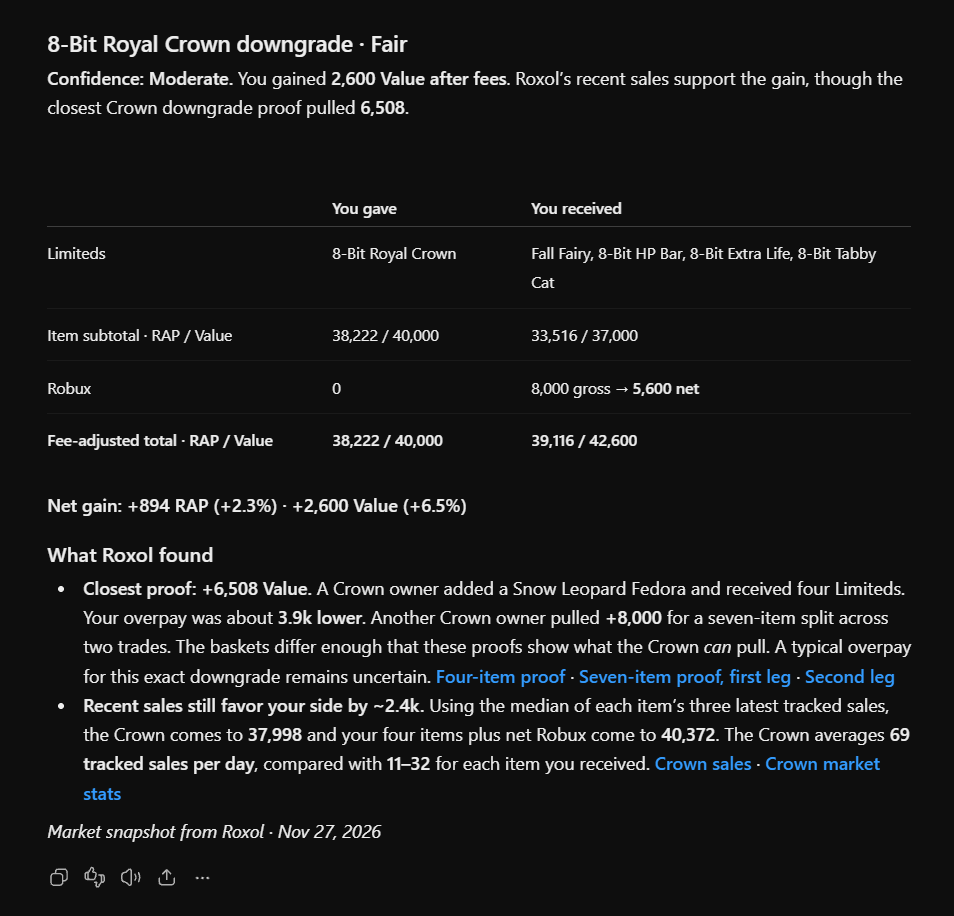
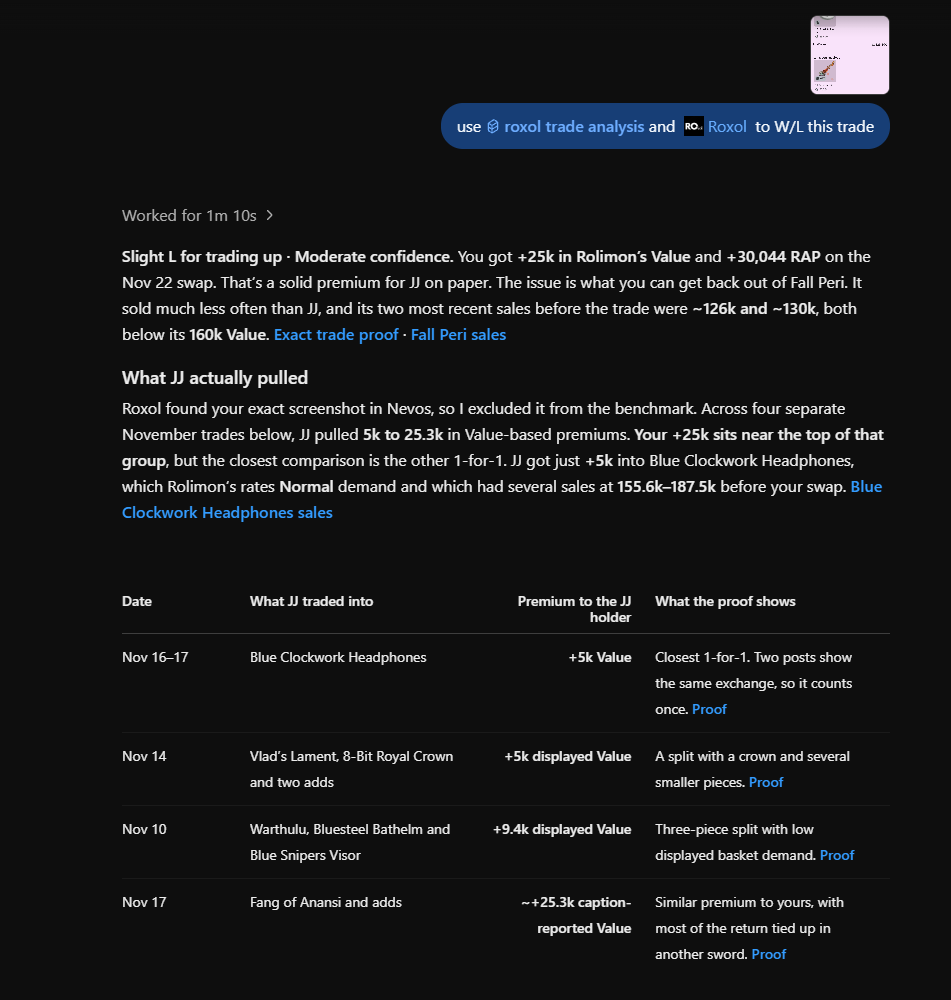
Refresh Roxol README screenshots
Show the trade analysis verdict, comparable deals, and market context from the same example. Add a profile Collections screenshot to show Roxol metrics on Limited cards.

diff --git a/README.md b/README.md
@@ -30,6 +30,8 @@ Open a Limited in Roblox Marketplace to check its price, recent sales, and obser
 
 Supported Roblox profiles and inventories also show RAP and Value totals for loaded copies, a paginated item breakdown, serials where available, and RoliBadges.
 
+![Roblox profile Collections with Roxol Value, demand badges, and sales history buttons on Limited cards](docs/screenshots/profile-collections.png)
+
 ## Trades
 
 Sign in and open Roblox **Trades**. Roxol adds comparisons to the trade lists, the selected trade, and the send and counter forms.
@@ -72,7 +74,9 @@ The bundled **Roxol Trade Analysis** skill assesses a trade screenshot or writte
 3. Make **@Roxol** available in the chat. Attach a trade screenshot or describe what you give, what you receive, and how much Robux is on each side. Include the date for a completed trade if you know it.
 4. Ask, “Was this trade a win, fair, or a loss?” [Skill source](skills/roxol-trade-analysis/SKILL.md)
 
-![Earlier Roxol Trade Analysis example showing a Fair verdict for an 8-Bit Royal Crown downgrade](docs/screenshots/trade-analysis-verdict.png)
+![Roxol Trade Analysis example showing a Slight L verdict for a JJ-to-Fall Peri trade and a table of comparable deals](docs/screenshots/trade-analysis-verdict.png)
+
+![Continuation of the same trade analysis, comparing sale frequency, RAP, and Value history for JJ and Fall Peri](docs/screenshots/trade-analysis-market-context.png)
 
 ## Planned features
 
